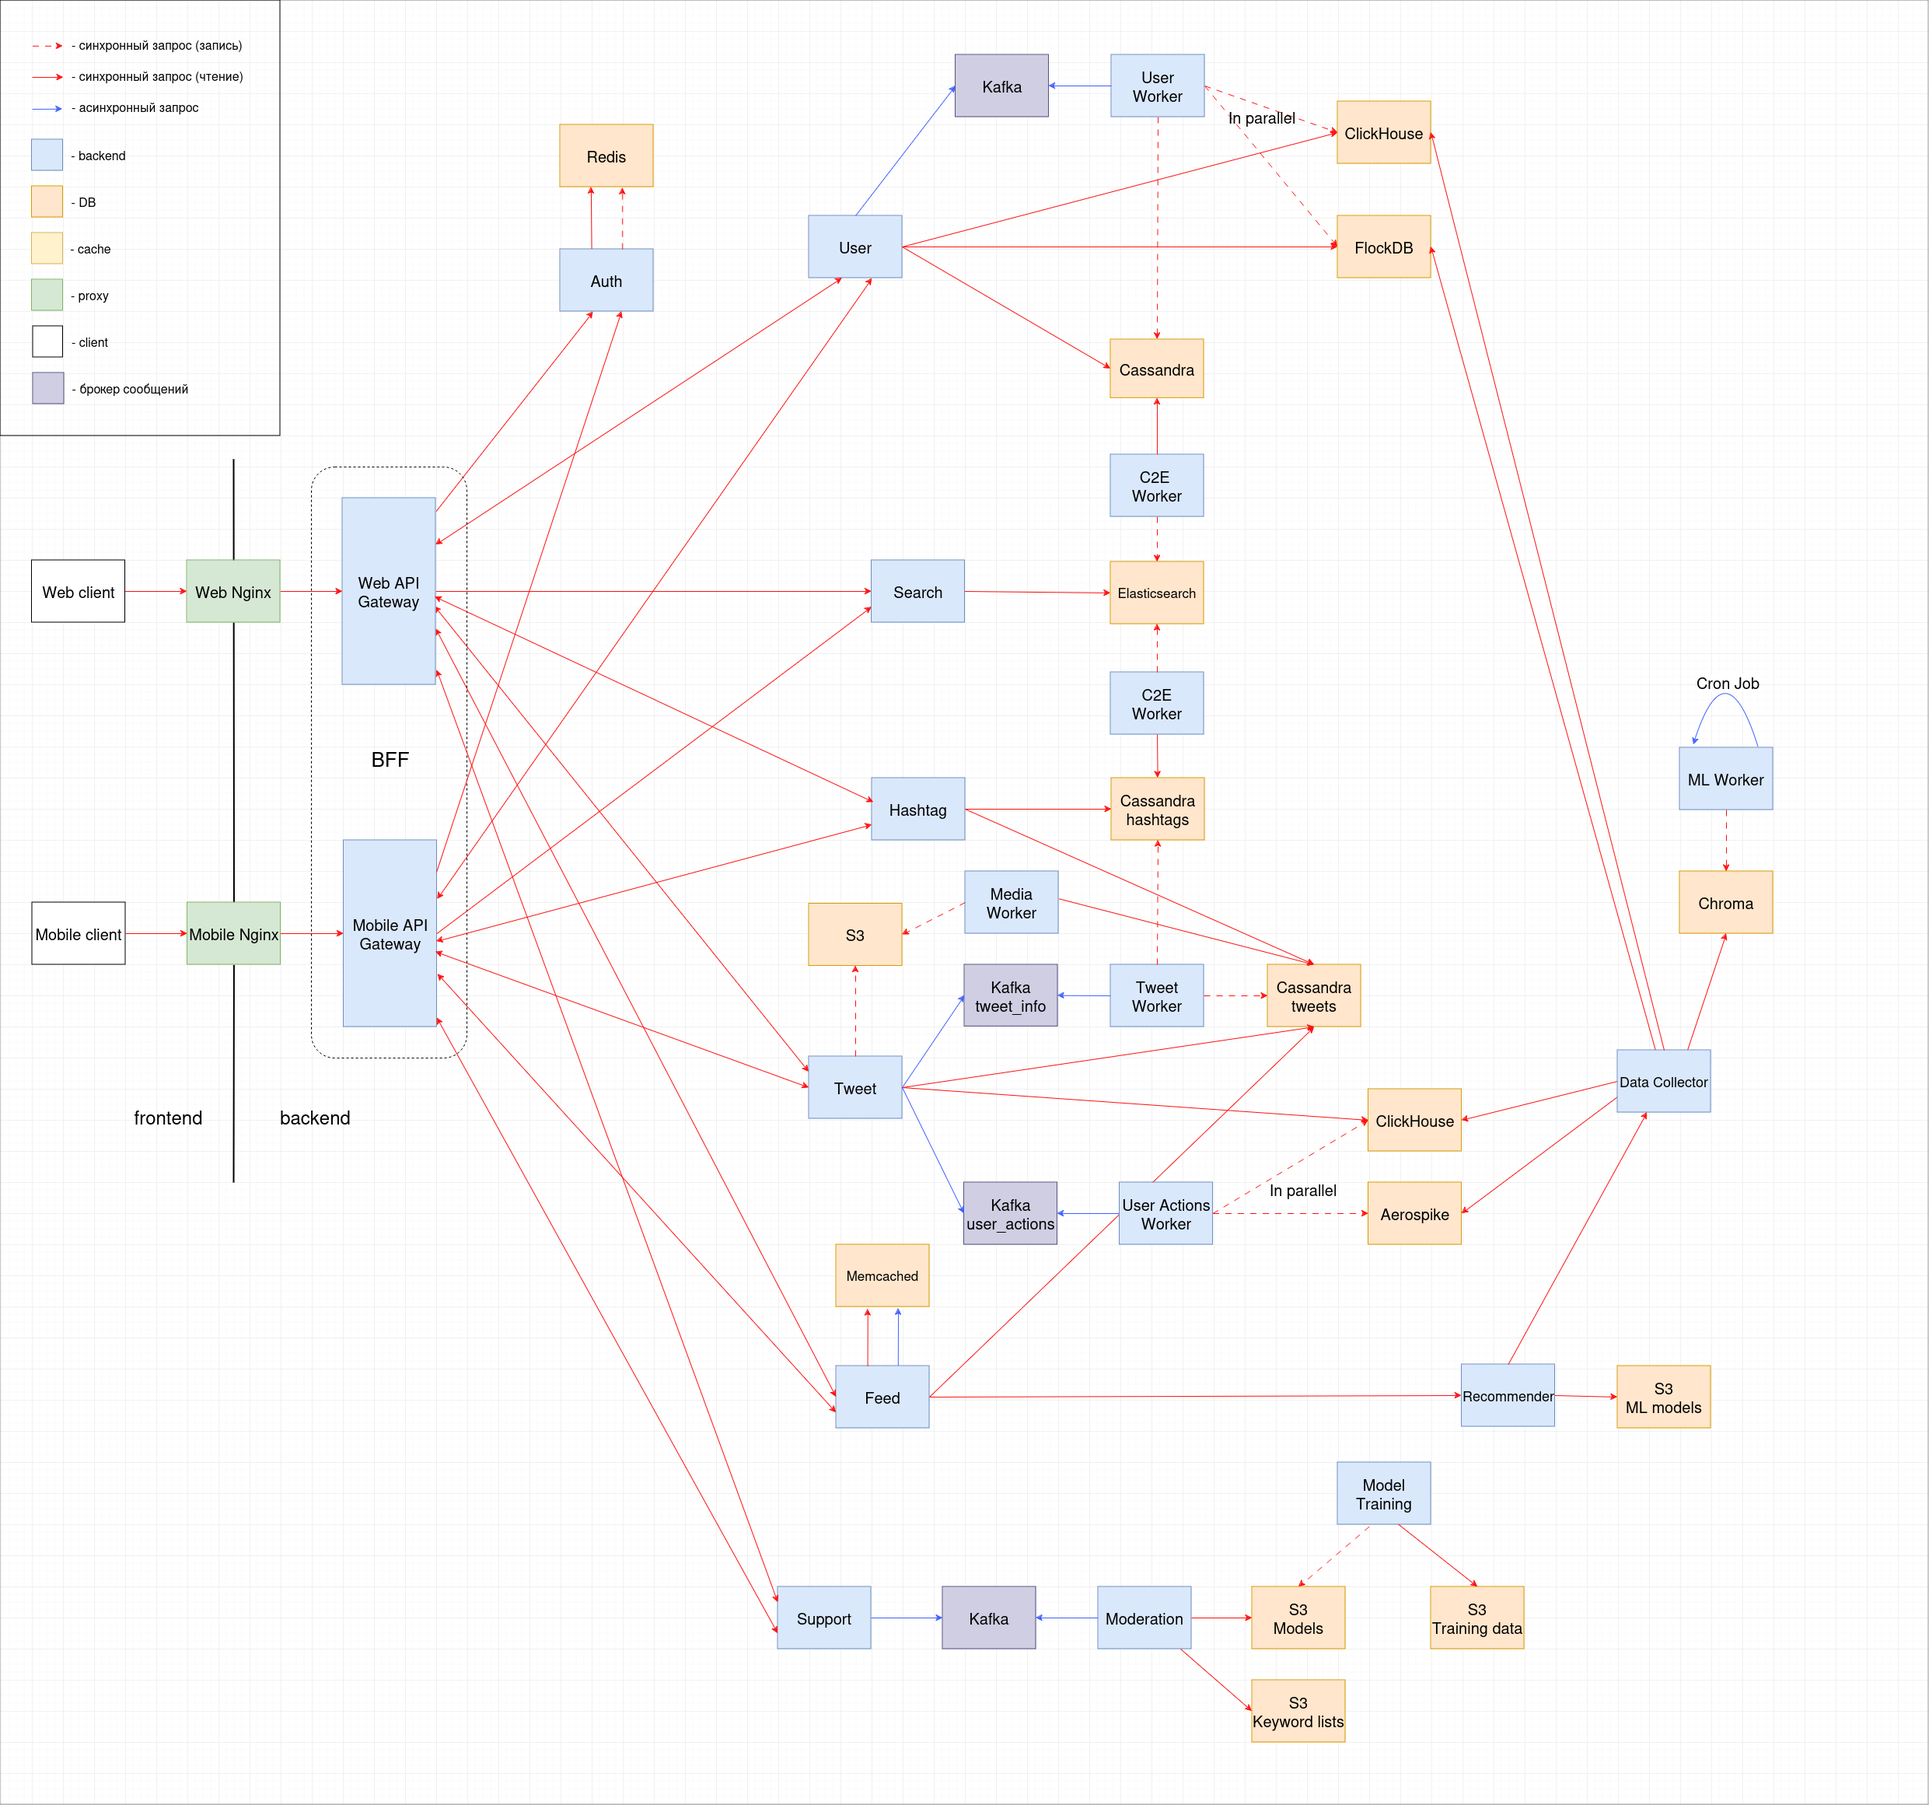
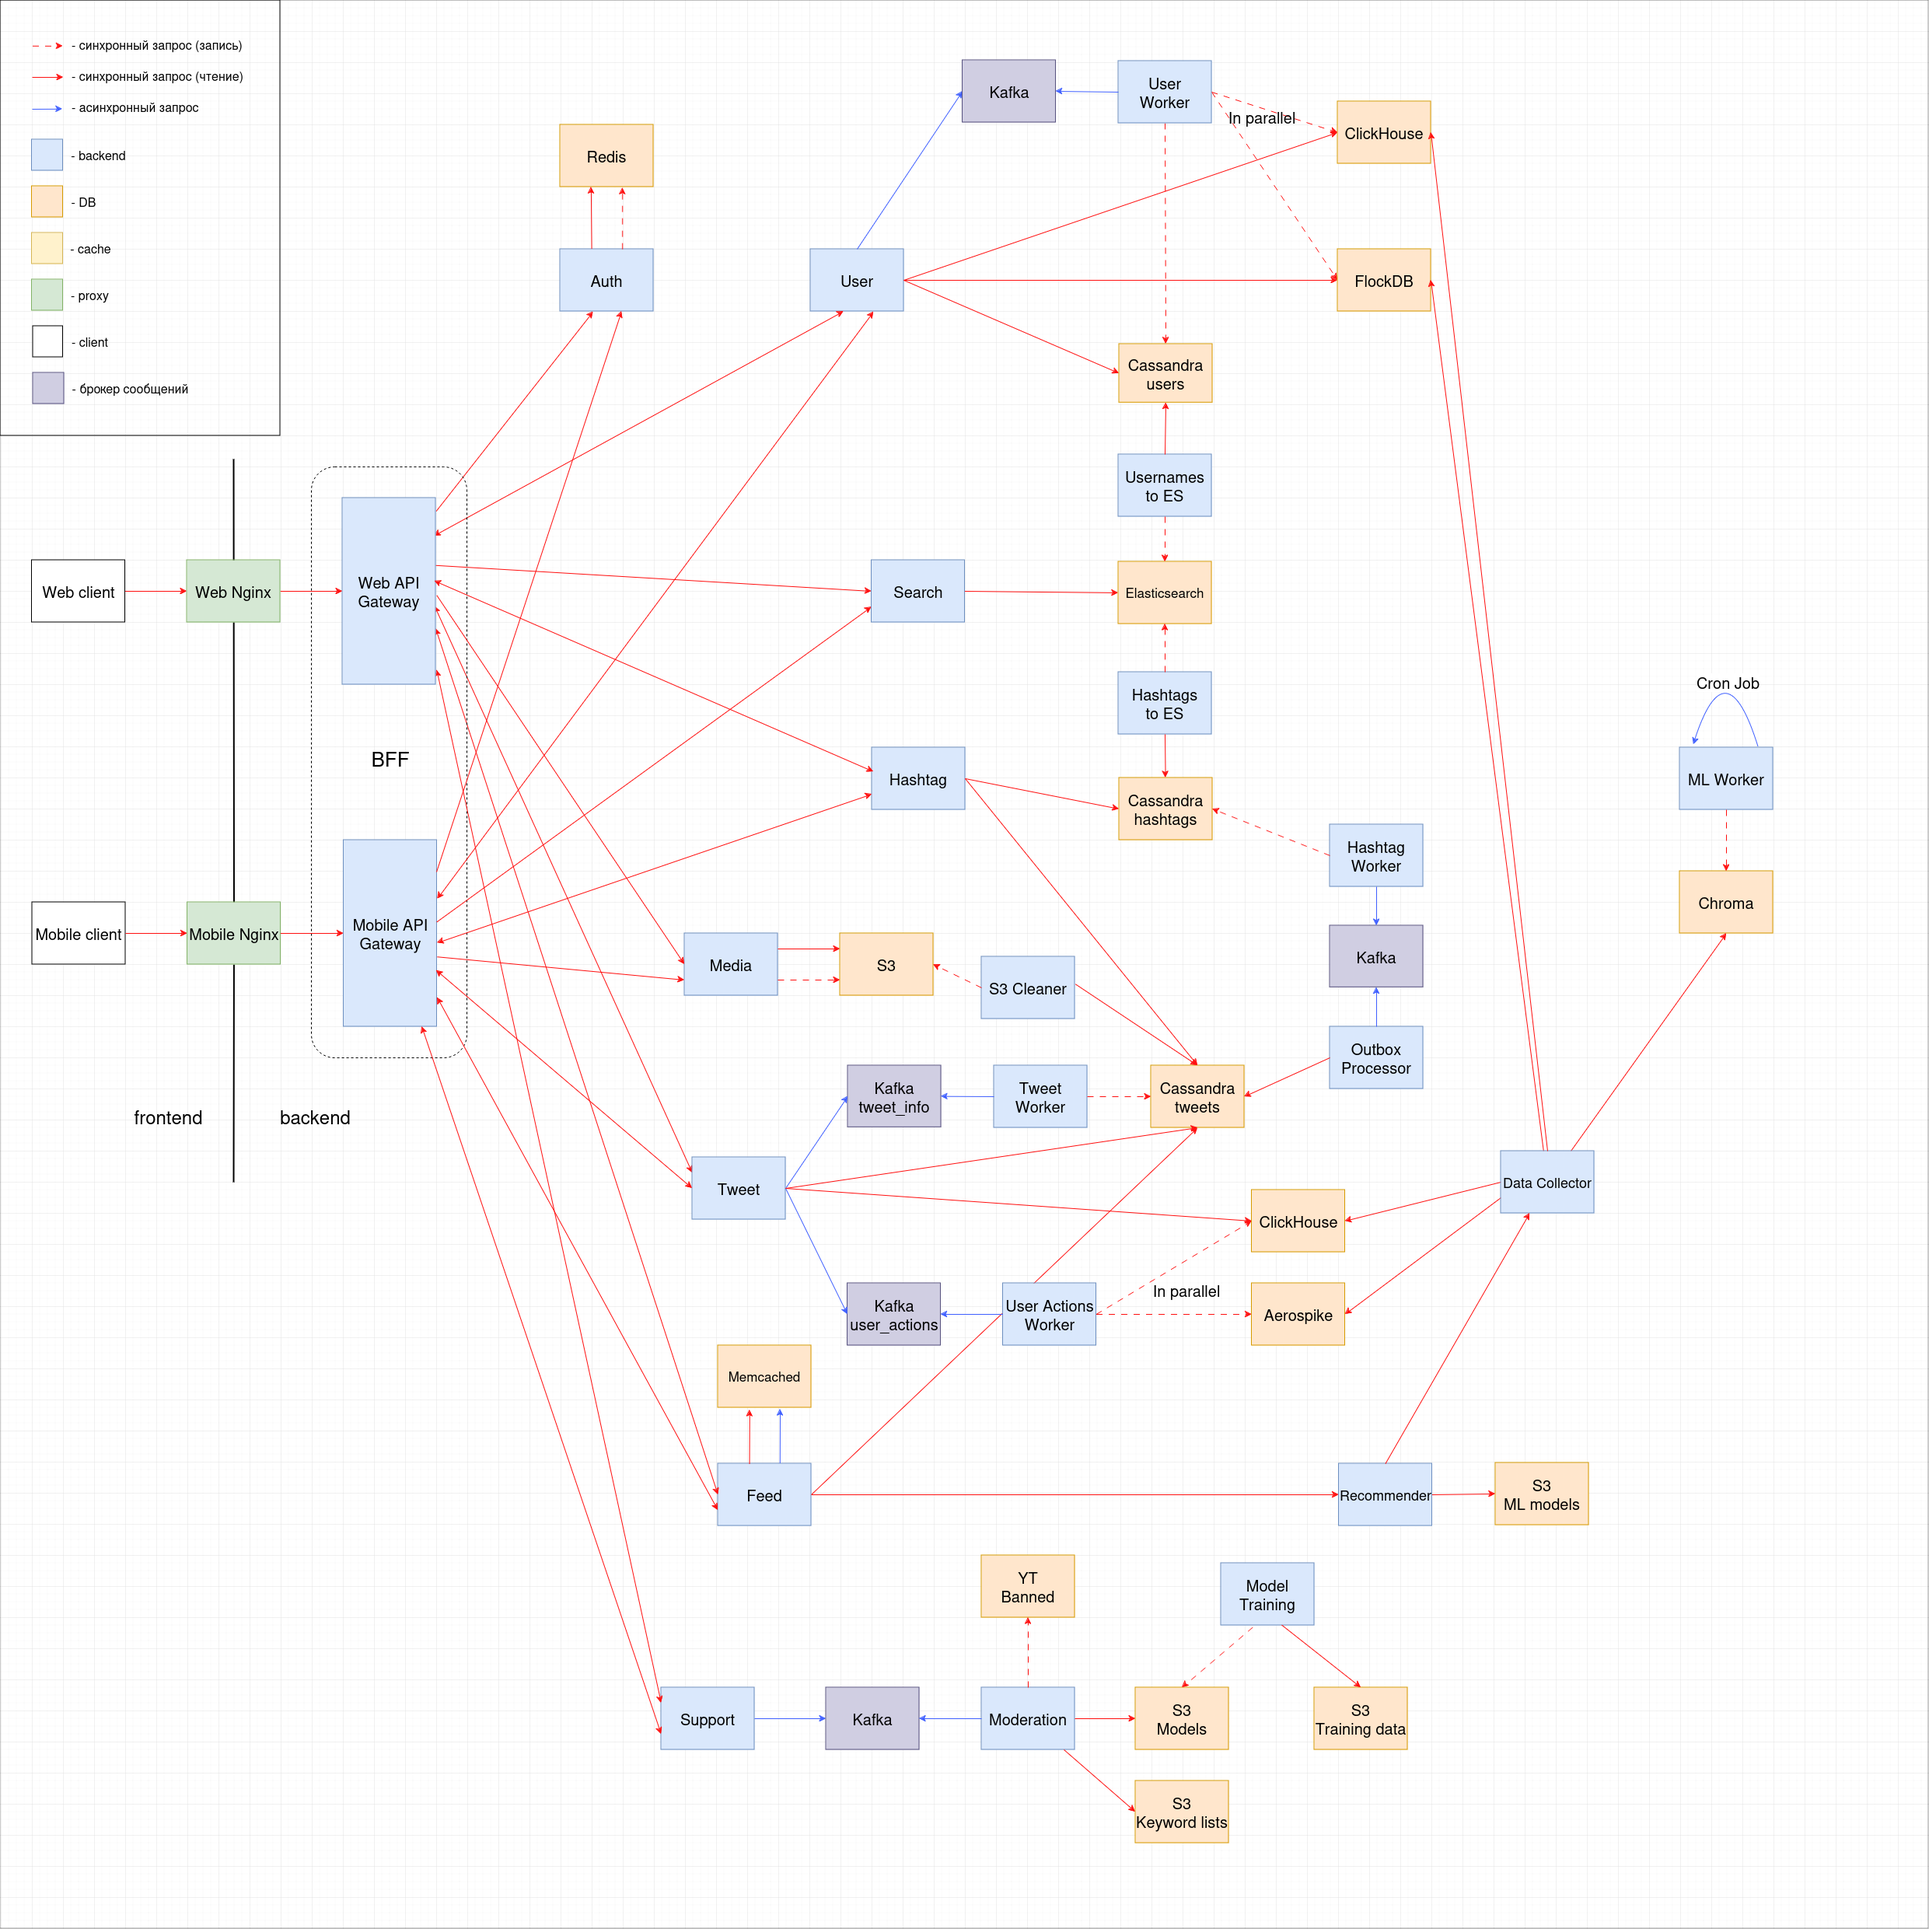
fix full scheme

diff --git a/README.md b/README.md
@@ -456,11 +456,11 @@ CNN хорошо подходят для распознавания образо
 
 - Backend For Frontend
 - CQRS
-- Синхронизация БД
 - Outbox
 
-Рассмотрим отдельно некоторые части схемы.
+Рассмотрим некоторые части схемы отдельно.
 
+#### 1 часть
 ![UserService](images/UserService.png)
 
 CQRS:
@@ -486,7 +486,7 @@ CQRS:
 - Сервис User Worker читает это сообщение с помощью двух консьюмер-групп и параллельно вносит изменения в базы данных.
 Один консьюмер обновляет граф подписок в FlockDB, а второй - изменяет счетчики подписчиков и подписок в ClickHouse
 
-
+#### 2 часть
 ![TweetService](images/TweetService.png)
 
 CQRS:
@@ -496,12 +496,12 @@ CQRS:
 - Сервис Search синхронно читает названия хештегов из Elasticsearch
 
 Outbox:
-- Сервис Tweet Worker записывает новый твит в Cassandra tweets.
+- Сервис Tweet Worker записывает новый твит в Cassandra tweets
 - Сервис Outbox Processor читает id твита и найденные в нем хештеги из Cassandra tweets и записывает в Kafka
 - Сервис Hashtag Worker читает это сообщение из Kafka и записывает в Cassandra hashtags
 
 Синхронизация БД:
-- Сервис Hashtags to ES синхронизирует Cassandra и Elasticsearch - добавляет в индекс новые хештеги.
+- Сервис Hashtags to ES синхронизирует Cassandra и Elasticsearch - добавляет в индекс новые хештеги
 - Сервис S3 Cleaner удаляет из S3 ненужные фото и видео
 
 Примеры работы сервисов:
@@ -520,11 +520,14 @@ Outbox:
 - Сервис Hashtags to ES читает название хештега из Cassandra hashtags и добавляет в индекс Elasticsearch,
   чтобы пользователь стал доступен для поиска
 
+#### 3 часть
 ![SupportService](images/SupportService.png)
 
 Пользователи могут пожаловаться на определенные твиты.
-Сервис Moderation будет асинхронно проверять эти твиты.
+Сервис Moderation будет асинхронно проверять эти твиты и записывать запрещенные твиты в YT Banned.  
 Модерация была описана в разделе [Модерация контента](#модерация-контента).
+
+#### 4 часть
 
 ![Recommendation](images/Recommendation.png)
 
@@ -535,6 +538,8 @@ Outbox:
 - Сервис Feed получает ленту от Recommender
 - Возможет вариант, когда Feed ходит в FlockDB и Cassandra для составления ленты по упрощенной логике.
 Этот процесс будет описан в следующем разделе
+
+#### 5 часть
 
 ![MetricsAndLogs](images/MetricsAndLogs.png)
 
@@ -584,8 +589,7 @@ Outbox:
 
 #### Support 
 
-- POST /report_tweet/{id}
-- POST /report_user/{id}
+- POST /report/{id}
 
 
 ## 10. Обеспечение надежности
